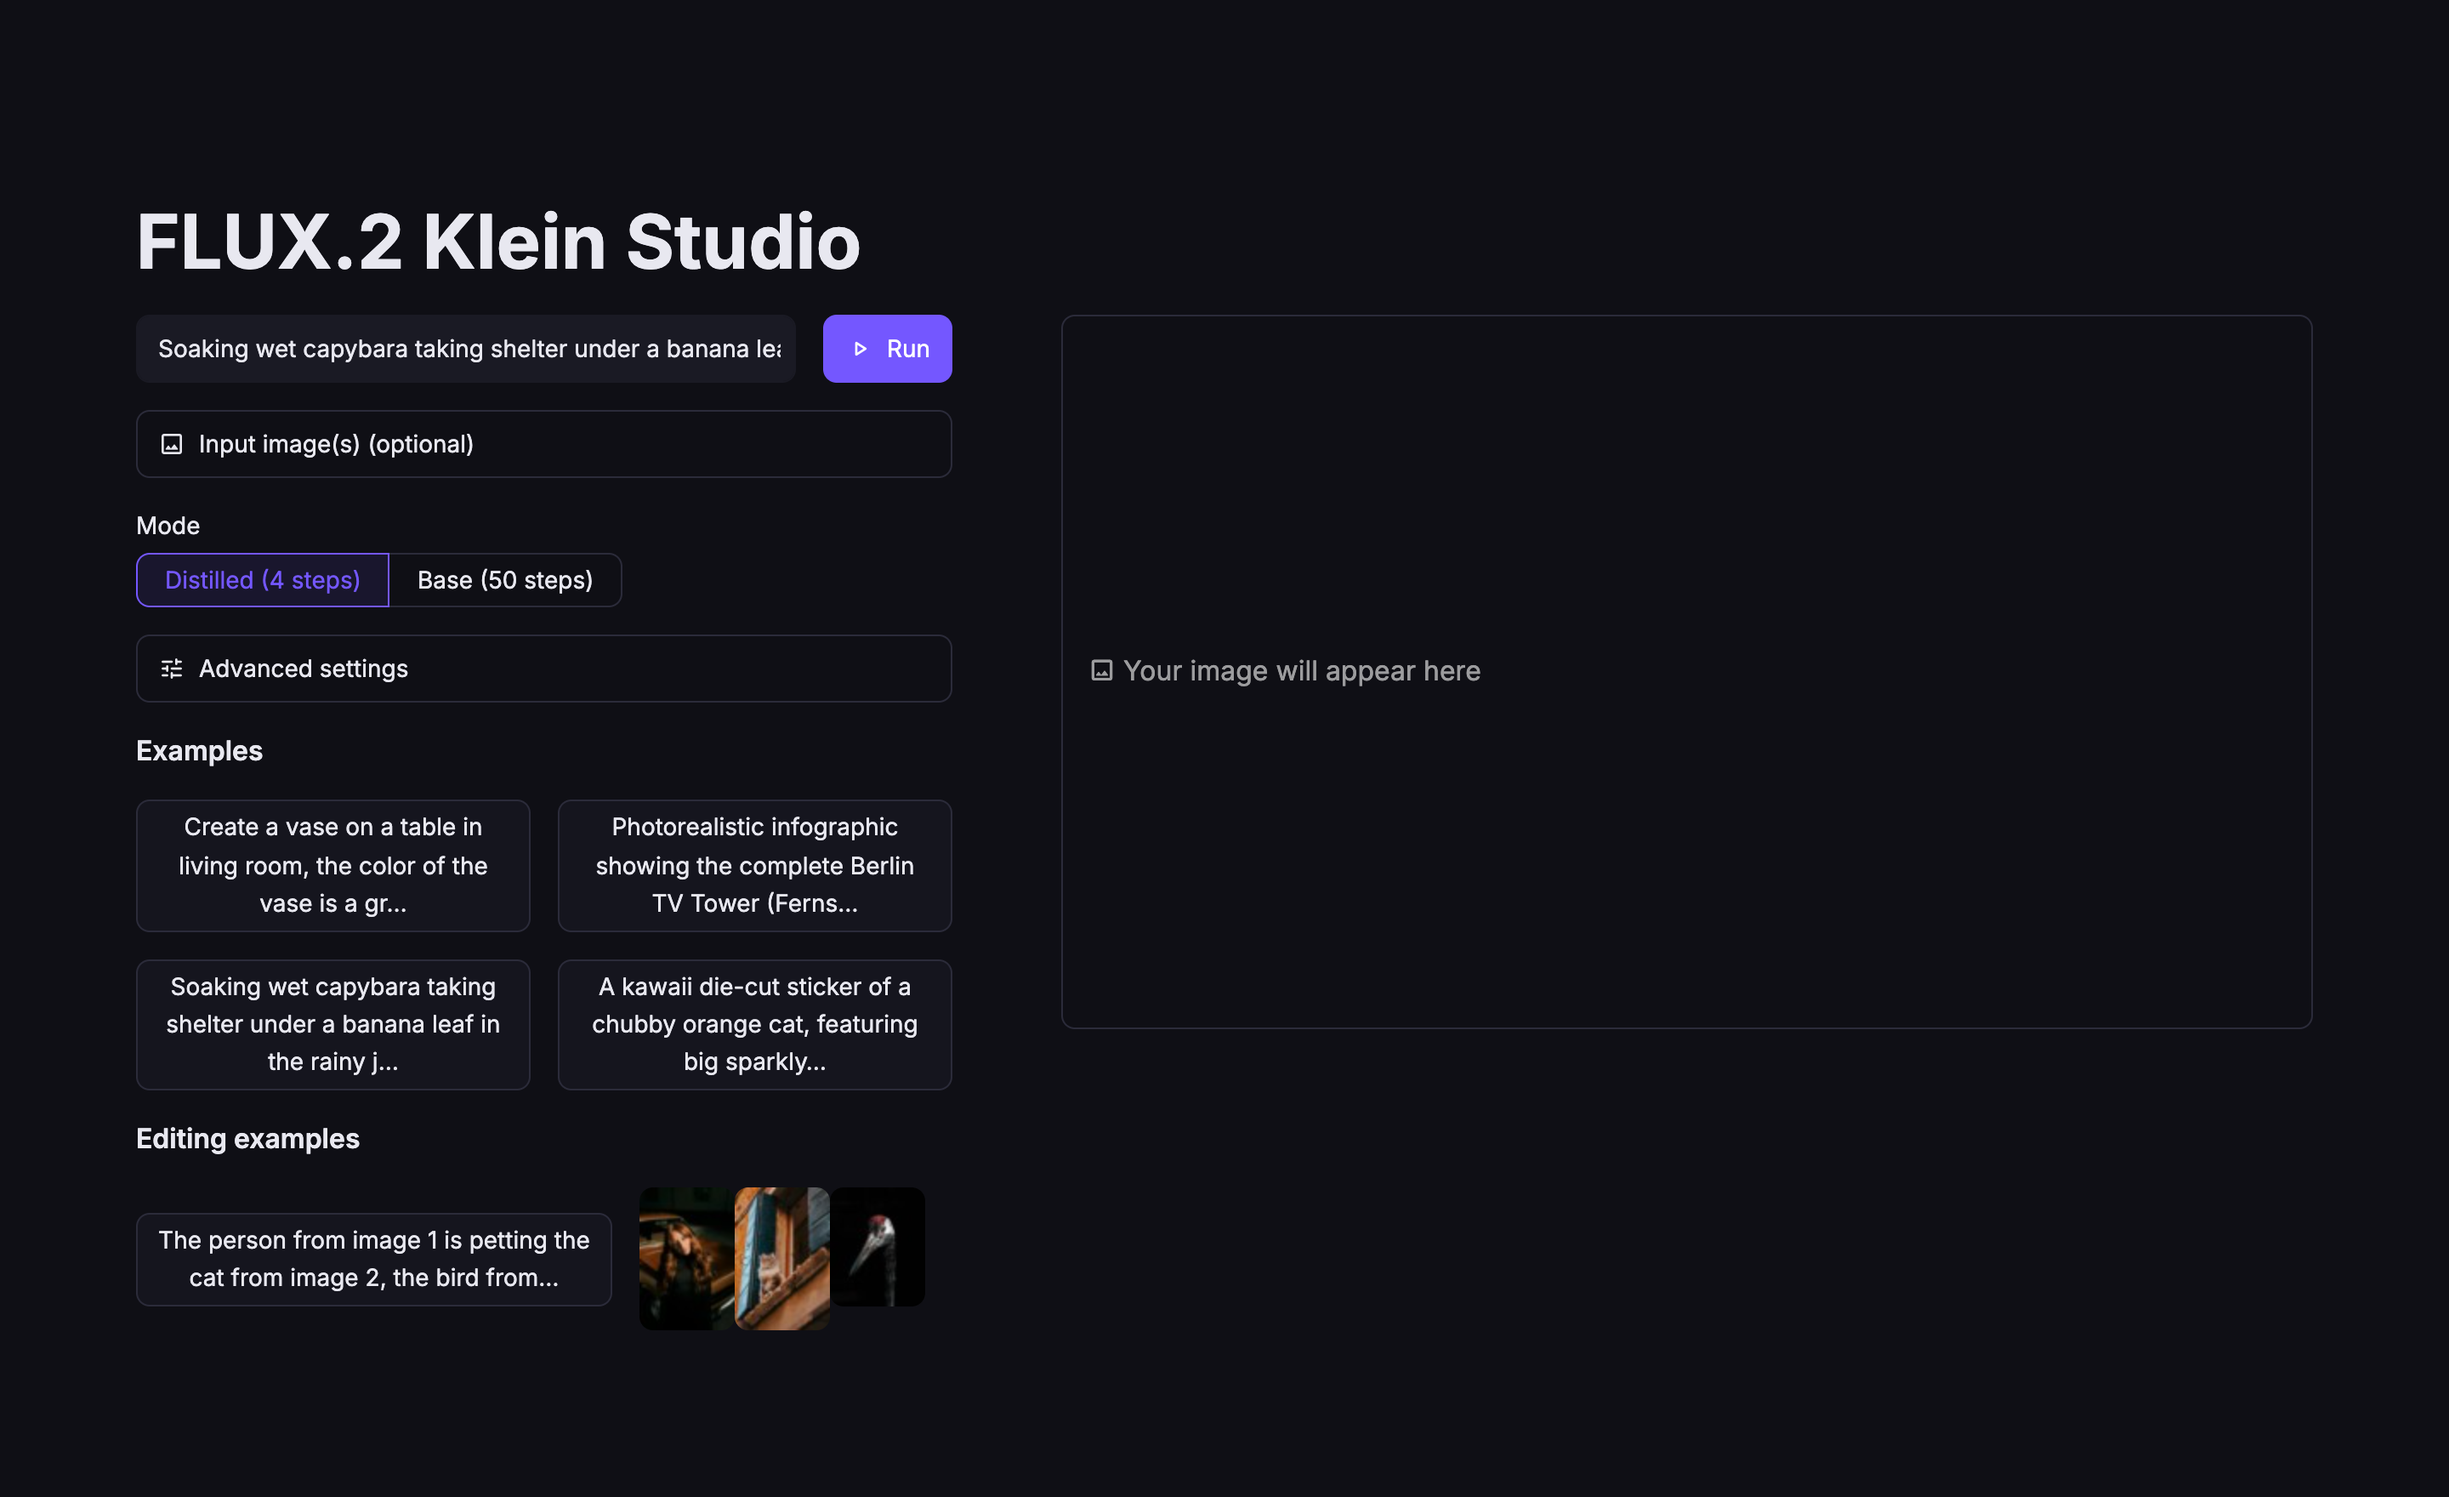
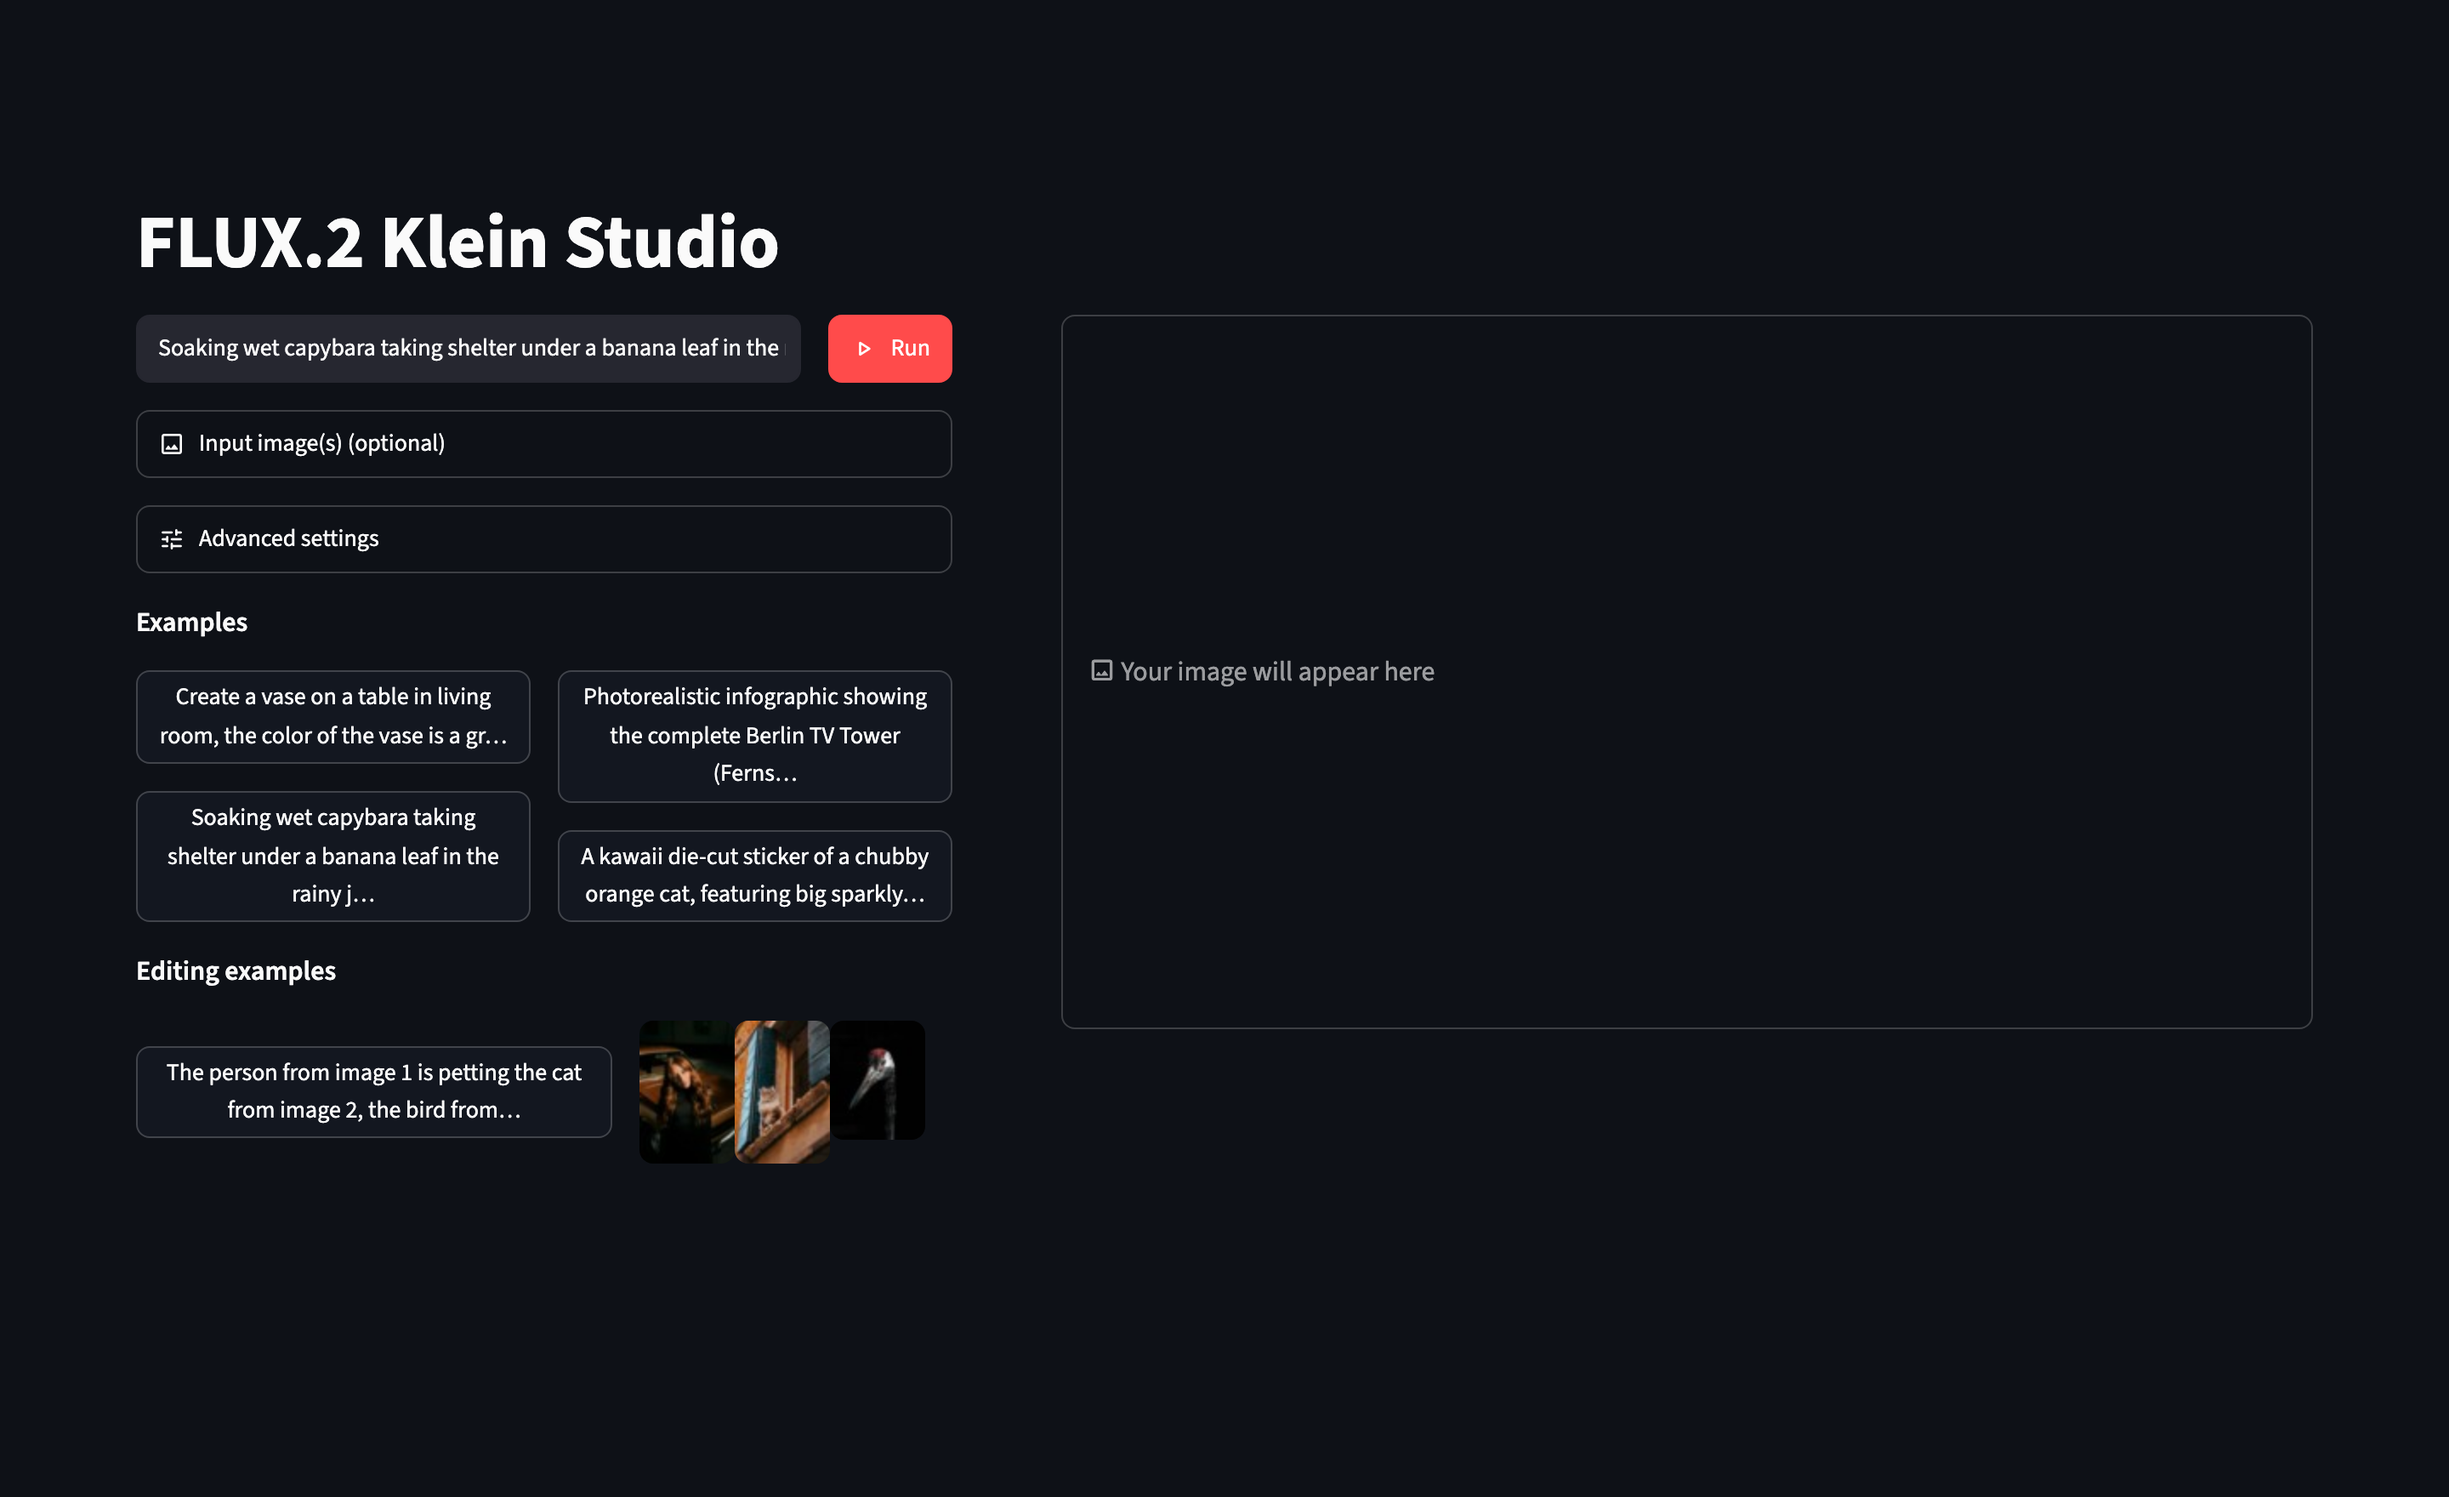
docs: re-shoot the README hero as a single default-dark screenshot
The pair was stale on two counts -- a "Mode: Distilled / Base" toggle the app
dropped in 0.7.0, and the retired custom purple palette. Replace it with one
2880x1760 capture of the current UI in Streamlit's default dark theme, and drop
docs/screenshot-light.png rather than maintain a second view of the same
controls column.

Recorded the capture recipe in CLAUDE.md because the two obvious routes both
fail here: Chrome's one-shot --screenshot flag fires at the load event and
catches Streamlit's skeleton placeholder (verified -- the first attempt came
back as grey blocks on #0E1117), and macOS screencapture tops out at 1x on this
machine's non-Retina displays while the asset is 2x. What works is serving the
app with --theme.base dark --client.toolbarMode minimal, then driving headless
Chrome over CDP with Emulation.setDeviceMetricsOverride at 1440x880 /
deviceScaleFactor 2, polling document.body.innerText until the app renders
before Page.captureScreenshot.

test_readme.py's _HERO_SCREENSHOTS drops to the one asset, so the hero stays
locked by name and cannot silently vanish while other images keep the suite
green.

Gates: ruff format --check, ruff check, ty check and pytest (211 passed, 5
deselected) all green, run by hand -- every write went through Bash.

diff --git a/tests/test_readme.py b/tests/test_readme.py
@@ -1,6 +1,6 @@
 """Contract tests for the local image assets README.md embeds.
 
-The README leads with a light/dark screenshot pair (``docs/screenshot-*.png``)
+The README leads with a dark-theme screenshot (``docs/screenshot-dark.png``)
 and illustrates the editing example with its bundled inputs (``examples/*.webp``).
 These are *local* references: unlike the shields.io badges (remote URLs), they
 render on GitHub only when the file is committed at the referenced path. A
@@ -26,9 +26,9 @@ _README = _REPO_ROOT / "README.md"
 _MD_IMG_RE = re.compile(r"!\[[^\]]*\]\(([^)]+)\)")
 _HTML_IMG_RE = re.compile(r"""<img\b[^>]*?\bsrc=["']([^"']+)["']""", re.IGNORECASE)
 
-# The light/dark studio pair is the point of the screenshots change; lock both
-# by name so they can't silently vanish while other images keep the suite green.
-_HERO_SCREENSHOTS = ("docs/screenshot-light.png", "docs/screenshot-dark.png")
+# The studio hero is the point of the screenshots change; lock it by name so it
+# can't silently vanish while other images keep the suite green.
+_HERO_SCREENSHOTS = ("docs/screenshot-dark.png",)
 
 
 def _local_image_refs():
@@ -66,9 +66,9 @@ class TestReadmeImages:
         assert not missing, f"README references missing local images: {missing}"
 
     def test_hero_screenshots_referenced(self):
-        # The light/dark studio pair is the deliverable these tests reflect;
-        # assert each is embedded via a real image tag (not merely a substring
-        # of the prose), then that it is present on disk.
+        # The studio hero is the deliverable these tests reflect; assert it is
+        # embedded via a real image tag (not merely a substring of the prose),
+        # then that it is present on disk.
         refs = _local_image_refs()
         for asset in _HERO_SCREENSHOTS:
             assert asset in refs, f"README no longer embeds {asset}"

diff --git a/CLAUDE.md b/CLAUDE.md
@@ -8,7 +8,7 @@ FLUX.2 Klein Studio is a single-file Streamlit application for generating and ed
 
 One model only — the distilled 4B pre-quantized to 8-bit ([mlx-community/flux2-klein-4b-8bit](https://huggingface.co/mlx-community/flux2-klein-4b-8bit)), ~8.6GB versus ~16GB for bf16. The 50-step base variant has no pre-quantized build under `mlx-community` (third-party mflux-format 8-bit builds do exist on the Hub) and is not offered. Optional vision-aware prompt upsampling via [Qwen3-VL-2B-Instruct](https://huggingface.co/mlx-community/Qwen3-VL-2B-Instruct-8bit) — the VLM can see uploaded images when enhancing editing prompts.
 
-`README.md` mirrors this file's Overview/Setup/CI/Releases/Hooks content for a public audience (plus a Usage section and a light/dark screenshot hero) — keep the two in sync.
+`README.md` mirrors this file's Overview/Setup/CI/Releases/Hooks content for a public audience (plus a Usage section and a dark-theme screenshot hero) — keep the two in sync.
 
 ## Setup
 
@@ -58,7 +58,7 @@ All four green, plus `README.md` re-synced if mirrored content moved. The `Stop`
 | `streamlit_app.py` | the entire application |
 | `tests/` | the suite (see Testing conventions) |
 | `examples/` | bundled edit-example images (`woman1.webp`, `cat_window.webp`, `bird.webp`) |
-| `docs/` | README screenshots |
+| `docs/` | the README screenshot |
 | `.claude/` | repo-shared Claude Code hooks |
 | `.github/workflows/` | CI quality gates + release |
 | `.streamlit/config.toml` | Streamlit config — deliberately carries no `[theme]` |
@@ -179,5 +179,5 @@ Cut by bumping `version` in `pyproject.toml` and pushing to `main` — nothing e
 - **All models share MLX unified memory, but not with each other**: `_get_model()` and `_get_edit_model()` are separate `@st.cache_resource` entries holding separate weight copies (they do share the single HF download), and Qwen3-VL-2B-8bit is a third. **Weight size badly understates the real footprint** — with only the txt2img model loaded, `phys_footprint` measured 24 GB after one 1024×1024 run against 8.6GB of weights. The excess is MLX's Metal buffer cache plus activations — reclaimable rather than leaked, with `mx.clear_cache()` as the lever. Budget from measurement, not from safetensors sizes.
 - **Streamlit widget state cannot be modified after instantiation.** Use `on_click` callbacks to set `st.session_state` keys for widgets, not direct assignment after the widget is created. Keyed expanders are the exception — `st.expander(key=...)` registers with writes allowed, so callbacks may set `st.session_state.input_expander` directly.
 - **The working tree carries an untracked `.env`, but the app reads no environment variables** and needs no HF token — don't wire configuration through it.
-- **`docs/screenshot-{light,dark}.png` are the README hero and are captured by hand** (run the app wide, one shot per appearance mode). `tests/test_readme.py` locks only that the README's local images exist and are git-tracked, never that they match the UI — so any change to the controls column means re-shooting both. **They are stale today** on two counts: they still show a "Mode: Distilled / Base" toggle the app no longer has, and they were shot against the retired custom purple palette rather than Streamlit's default themes.
+- **`docs/screenshot-dark.png` is the README hero** — one shot, dark only; there is no light counterpart. `tests/test_readme.py` locks that the README's local images exist and are git-tracked, never that they match the UI, so any change to the controls column means re-shooting. Current as of 2026-08-20 (Streamlit default dark, no Mode toggle). The recipe, because two obvious routes both fail: serve the app with `--theme.base dark --client.toolbarMode minimal` (forces dark deterministically and hides the Deploy toolbar), then drive headless Chrome over CDP on `--remote-debugging-port`, `Emulation.setDeviceMetricsOverride` at 1440×880 / `deviceScaleFactor: 2`, polling `document.body.innerText` until the app renders before `Page.captureScreenshot`. Chrome's one-shot `--screenshot` flag fires at the load event and catches Streamlit's skeleton placeholder instead, and macOS `screencapture` can only reach 1× on a non-Retina display — the existing 2880×1760 asset is 2×.
 - **Commit style:** Conventional Commits (including the local `harden(...)` type, and `feat!:` for breaking changes) with a body that states the evidence, on a `<type>/<slug>` topic branch merged with `--no-ff`. There is no pre-commit config — the `.claude/` hooks are the only local automation.

diff --git a/README.md b/README.md
@@ -7,10 +7,9 @@
 Streamlit application for generating and editing images using Black Forest Labs [FLUX.2 Klein](https://huggingface.co/black-forest-labs/FLUX.2-klein-4B) on Apple Silicon with MLX, running the [8-bit quantized distilled 4B](https://huggingface.co/mlx-community/flux2-klein-4b-8bit) weights.
 
 <p align="center">
-  <img src="docs/screenshot-light.png" width="49%" alt="FLUX.2 Klein Studio — light theme">
-  <img src="docs/screenshot-dark.png" width="49%" alt="FLUX.2 Klein Studio — dark theme">
+  <img src="docs/screenshot-dark.png" width="100%" alt="FLUX.2 Klein Studio — the two-column studio in Streamlit's dark theme">
 </p>
-<p align="center"><sub>Light and dark themes (left / right)</sub></p>
+<p align="center"><sub>The studio in Streamlit's default dark theme — light is one click away in the app's appearance settings</sub></p>
 
 ## Features
 
